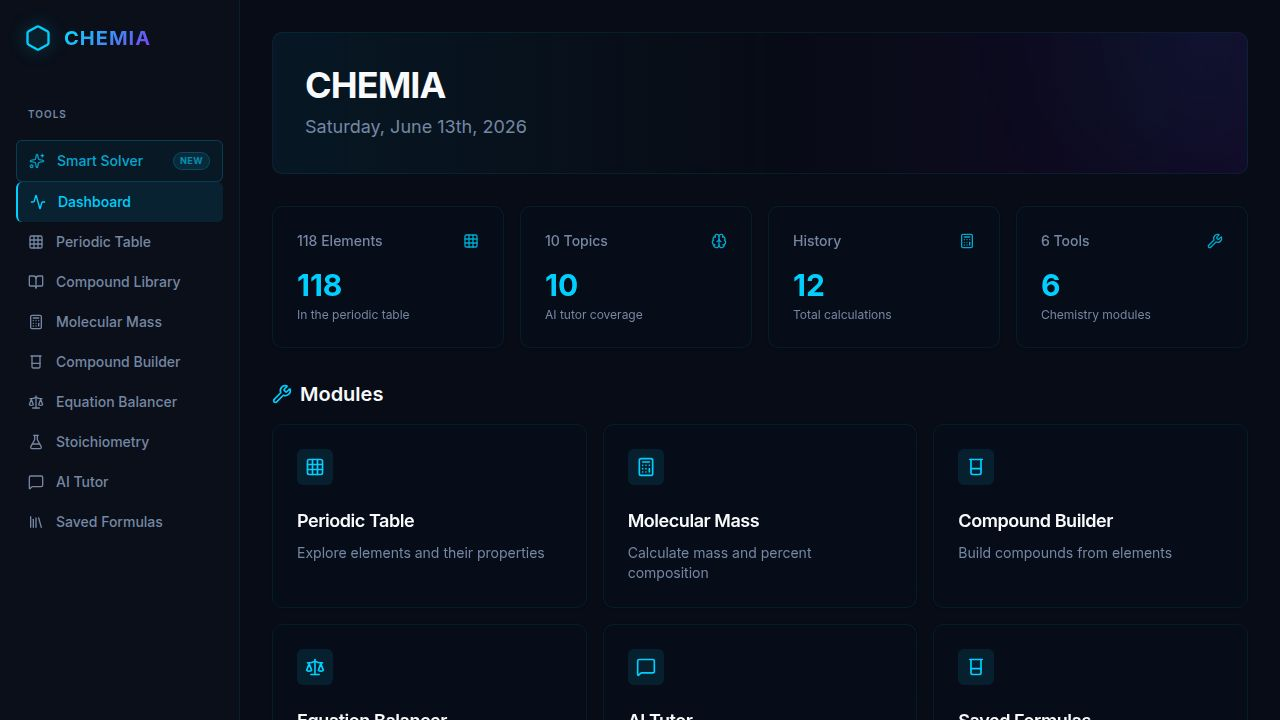
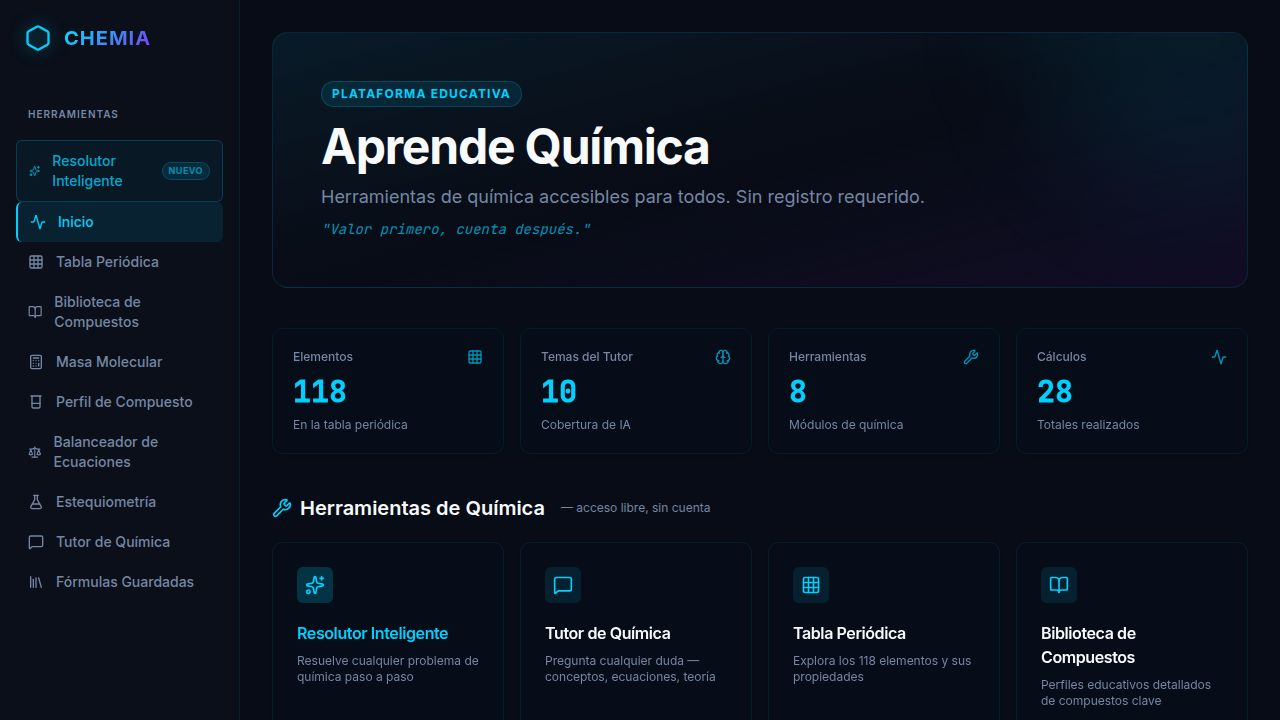
Add Lewis structure SVG diagram renderer to compound profile
Task: Add pre-authored SVG Lewis dot diagrams to each of the 11 MVP compounds
and render them visually in the Lewis card of the compound profile page.

## Backend changes

### New file: artifacts/api-server/src/lib/lewissvg.ts
- Contains 11 hand-crafted, chemically accurate SVG Lewis structure diagrams
- Follows IUPAC conventions: electron dot pairs, bond lines, bracket notation for ions
- Consistent visual language across all compounds:
  - Atom labels: monospace bold, fill #e2e8f0 (readable on dark background)
  - Bond lines: stroke #94a3b8, single vs. double (parallel lines with offset)
  - Lone pairs: two circles (r=2.3) per pair, fill #94a3b8
  - Ionic brackets drawn with <path> elements; charge superscripts shown
- Exports a LEWIS_SVG record keyed by compound formula

### artifacts/api-server/src/lib/perfilUniversal.ts
- Added `lewissvg?: string` to PerfilLewis interface
- Imported LEWIS_SVG from lewissvg.ts
- Modified generarPerfil() to inject the SVG via object spread (no per-compound edits)

## API contract changes

### lib/api-spec/openapi.yaml
- Added `lewissvg` (type: string, optional) to PerfilLewis schema with description
- Re-ran codegen (orval) — all generated hooks and Zod schemas updated cleanly

## Frontend changes

### artifacts/chemia/src/pages/compound-builder.tsx
- Lewis card now renders the SVG via dangerouslySetInnerHTML before the text description
- SVG container: bg-slate-900/60 rounded-lg with subtle border — matches dark theme
[…]

diff --git a/artifacts/api-server/src/lib/lewissvg.ts b/artifacts/api-server/src/lib/lewissvg.ts
@@ -1,0 +1,277 @@
+// ─────────────────────────────────────────────────────────────────────────────
+// CHEMIA — Pre-authored Lewis structure SVG diagrams (IUPAC conventions)
+// Each SVG follows the same visual language:
+//   • Atom labels  — font-family monospace, fill #e2e8f0
+//   • Bond lines   — stroke #94a3b8, stroke-width 1.5
+//   • Lone pairs   — fill #94a3b8, r 2.3 (two dots = one pair)
+//   • Brackets     — stroke #64748b (ionic compounds)
+//   • Footer label — fill #475569, font-size 9
+// ─────────────────────────────────────────────────────────────────────────────
+
+const ATOM  = 'font-family="monospace" font-size="15" font-weight="bold" fill="#e2e8f0" text-anchor="middle"';
+const BOND  = 'stroke="#94a3b8" stroke-width="1.5" stroke-linecap="round"';
+const DOT   = 'fill="#94a3b8" r="2.3"';
+const BKT   = 'stroke="#64748b" stroke-width="1.5" fill="none"';
+const LBL   = 'font-family="sans-serif" font-size="9" fill="#475569" text-anchor="middle"';
+const CHG   = 'font-family="sans-serif" font-size="11" fill="#94a3b8"';
+
+function svg(content: string): string {
+  return `<svg xmlns="http://www.w3.org/2000/svg" viewBox="0 0 220 140">${content}</svg>`;
+}
+
+function atom(x: number, y: number, sym: string): string {
+  return `<text x="${x}" y="${y}" ${ATOM}>${sym}</text>`;
+}
+
+function line(x1: number, y1: number, x2: number, y2: number): string {
+  return `<line x1="${x1}" y1="${y1}" x2="${x2}" y2="${y2}" ${BOND}/>`;
+}
+
+function dbl(x1: number, y1: number, x2: number, y2: number, ox: number, oy: number): string {
+  return (
+    `<line x1="${x1-ox}" y1="${y1-oy}" x2="${x2-ox}" y2="${y2-oy}" ${BOND}/>` +
+    `<line x1="${x1+ox}" y1="${y1+oy}" x2="${x2+ox}" y2="${y2+oy}" ${BOND}/>`
+  );
+}
+
+function dot(x: number, y: number): string {
+  return `<circle cx="${x}" cy="${y}" ${DOT}/>`;
+}
+
+function pair(x1: number, y1: number, x2: number, y2: number): string {
+  return dot(x1, y1) + dot(x2, y2);
+}
+
+function lbl(text: string): string {
+  return `<text x="110" y="133" ${LBL}>${text}</text>`;
+}
+
+function bracket(x: number, y1: number, y2: number, dir: 1 | -1): string {
+  const s = dir * 6;
+  return `<path d="M ${x},${y1} L ${x+s},${y1} L ${x+s},${y2} L ${x},${y2}" ${BKT}/>`;
+}
+
+// ── H₂O ────────────────────────────────────────────────────────────────────
+// Bent (angular), AX₂E₂, sp³, ∠104.5°
+// O at center, two H atoms below-left and below-right, 2 lone pairs on O (top)
+export const SVG_H2O = svg(
+  pair(96, 52, 104, 52) +       // LP 1 (top-left of O)
+  pair(116, 52, 124, 52) +      // LP 2 (top-right of O)
+  line(104, 76, 78, 100) +      // O–H left bond
+  line(116, 76, 142, 100) +     // O–H right bond
+  atom(110, 76, "O") +
+  atom(71, 108, "H") +
+  atom(149, 108, "H") +
+  lbl("AX₂E₂ · sp³ · ∠H–O–H = 104.5° · μ = 1.85 D")
+);
+
+// ── CO₂ ────────────────────────────────────────────────────────────────────
+// Linear, AX₂, sp, 2 double bonds C=O
+// Each O has 2 lone pairs (top + bottom)
+export const SVG_CO2 = svg(
+  pair(22, 57, 32, 57) +        // O_L LP top
+  pair(22, 83, 32, 83) +        // O_L LP bottom
+  pair(188, 57, 198, 57) +      // O_R LP top
+  pair(188, 83, 198, 83) +      // O_R LP bottom
+  dbl(39, 70, 101, 70, 0, 3) +  // O=C left double bond (offset vertical)
+  dbl(119, 70, 181, 70, 0, 3) + // C=O right double bond
+  atom(30, 74, "O") +
+  atom(110, 74, "C") +
+  atom(190, 74, "O") +
+  `<text x="110" y="115" ${LBL}>AX₂ · sp · lineal · μ = 0 D (simétrica)</text>`
+);
+
+// ── NH₃ ────────────────────────────────────────────────────────────────────
+// Trigonal pyramidal, AX₃E₁, sp³
+// N center, 3 H atoms below, 1 lone pair on N (top)
+export const SVG_NH3 = svg(
+  pair(103, 47, 117, 47) +      // lone pair on N
+  line(103, 69, 69, 98) +       // N–H left bond
+  line(117, 69, 151, 98) +      // N–H right bond
+  line(110, 73, 110, 105) +     // N–H bottom bond
+  atom(110, 73, "N") +
+  atom(62, 107, "H") +
+  atom(158, 107, "H") +
+  atom(110, 117, "H") +
+  `<text x="110" y="133" ${LBL}>AX₃E₁ · sp³ · piramidal trigonal · μ = 1.47 D</text>`
+);
+
+// ── CH₄ ────────────────────────────────────────────────────────────────────
+// Tetrahedral, AX₄, sp³
+// C center, 4 H atoms (cross projection), no lone pairs
+export const SVG_CH4 = svg(
+  line(110, 61, 110, 38) +      // C–H top
+  line(101, 70, 67, 70) +       // C–H left
+  line(119, 70, 153, 70) +      // C–H right
+  line(110, 79, 110, 102) +     // C–H bottom
+  atom(110, 74, "C") +
+  atom(110, 30, "H") +
+  atom(58, 74, "H") +
+  atom(162, 74, "H") +
+  atom(110, 113, "H") +
+  lbl("AX₄ · sp³ · tetraédrica · μ = 0 D (simétrica)")
+);
+
+// ── NaCl ───────────────────────────────────────────────────────────────────
+// Ionic: [Na]⁺  [:Cl:]⁻
+// Na⁺ in brackets; Cl⁻ with 4 lone pairs in brackets
+export const SVG_NaCl = svg(
+  bracket(38, 54, 82, 1) +       // Na+ left bracket
+  bracket(80, 54, 82, -1) +      // Na+ right bracket
+  atom(59, 74, "Na") +
+  `<text x="88" y="57" ${CHG}>+</text>` +
+  bracket(126, 50, 92, 1) +      // Cl- left bracket
+  bracket(189, 50, 92, -1) +     // Cl- right bracket
+  pair(147, 53, 163, 53) +       // Cl LP top
+  pair(147, 90, 163, 90) +       // Cl LP bottom
+  pair(130, 64, 130, 76) +       // Cl LP left
+  pair(186, 64, 186, 76) +       // Cl LP right
+  atom(157, 74, "Cl") +
+  `<text x="196" y="53" ${CHG}>−</text>` +
+  `<text x="110" y="119" ${LBL}>Iónico · ΔEN = 2.23 · red cristalina FCC · NC = 6</text>`
+);
+
+// ── HCl ────────────────────────────────────────────────────────────────────
+// Linear diatomic, AX₁E₃ on Cl, sp³
+// H–Cl single bond, 3 lone pairs on Cl
+export const SVG_HCl = svg(
+  line(63, 70, 135, 70) +        // H–Cl bond
+  atom(55, 74, "H") +
+  atom(152, 74, "Cl") +
+  pair(143, 52, 162, 52) +       // Cl LP top
+  pair(143, 88, 162, 88) +       // Cl LP bottom
+  pair(176, 63, 176, 77) +       // Cl LP right
+  lbl("AX₁E₃ · sp³ (Cl) · diatómica polar · μ = 1.08 D")
+);
+
+// ── HNO₃ ───────────────────────────────────────────────────────────────────
+// Planar trigonal, AX₃ (resonance), sp²
+// H–O–N with =O above and resonance –O below
+export const SVG_HNO3 = svg(
+  line(27, 70, 50, 70) +         // H–O bond
+  pair(54, 53, 64, 53) +         // O_h LP top
+  pair(54, 84, 64, 84) +         // O_h LP bottom
+  line(69, 70, 98, 66) +         // O–N bond
+  dbl(105, 60, 105, 30, 4, 0) +  // N=O top (double bond, horizontal offset)
+  line(112, 68, 141, 90) +       // N–O bottom (single, resonance)
+  pair(95, 21, 115, 21) +        // O_top LP top
+  pair(89, 31, 89, 41) +         // O_top LP left
+  pair(148, 97, 162, 97) +       // O_bot LP bottom
+  pair(152, 83, 152, 91) +       // O_bot LP right — shown with charge
+  atom(20, 74, "H") +
+  atom(60, 74, "O") +
+  atom(108, 70, "N") +
+  atom(105, 24, "O") +
+  atom(150, 98, "O") +
+  `<text x="163" y="91" ${CHG}>−</text>` +
+  `<text x="110" y="122" ${LBL}>AX₃ (resonancia) · sp² · plana trigonal · μ = 2.17 D</text>`
+);
+
+// ── H₂SO₄ ──────────────────────────────────────────────────────────────────
+// Tetrahedral around S, AX₄, sp³
+// 2 S=O (above/below) and 2 S–O–H (left/right)
+export const SVG_H2SO4 = svg(
+  atom(20, 72, "H") +
+  line(29, 70, 50, 70) +         // H–O_L bond
+  pair(53, 55, 63, 55) +         // O_L LP top
+  pair(53, 83, 63, 83) +         // O_L LP bottom
+  atom(58, 72, "O") +
+  line(67, 70, 100, 70) +        // O_L–S bond
+  atom(110, 72, "S") +
+  line(119, 70, 152, 70) +       // S–O_R bond
+  atom(162, 72, "O") +
+  pair(157, 55, 167, 55) +       // O_R LP top
+  pair(157, 83, 167, 83) +       // O_R LP bottom
+  line(171, 70, 192, 70) +       // O_R–H bond
+  atom(200, 72, "H") +
+  dbl(110, 61, 110, 30, 4, 0) +  // S=O top double bond
+  pair(96, 22, 96, 32) +         // O_top LP left
+  pair(124, 22, 124, 32) +       // O_top LP right
+  atom(110, 24, "O") +
+  dbl(110, 79, 110, 113, 4, 0) + // S=O bottom double bond
+  pair(96, 108, 96, 118) +       // O_bot LP left
+  pair(124, 108, 124, 118) +     // O_bot LP right
+  atom(110, 122, "O") +
+  `<text x="110" y="137" ${LBL}>AX₄ · sp³ · tetraédrica (S) · μ = 2.72 D</text>`
+);
+
+// ── Ca(OH)₂ ────────────────────────────────────────────────────────────────
+// Ionic: Ca²⁺ and 2 × OH⁻
+// Ca²⁺ in brackets; one OH⁻ shown (×2) with O–H bond and lone pairs on O
+export const SVG_CaOH2 = svg(
+  bracket(32, 52, 86, 1) +       // Ca²⁺ left bracket
+  bracket(85, 52, 86, -1) +      // Ca²⁺ right bracket
+  atom(58, 75, "Ca") +
+  `<text x="93" y="55" ${CHG}>2+</text>` +
+  `<text x="108" y="75" font-family="sans-serif" font-size="14" fill="#64748b">×2</text>` +
+  bracket(123, 50, 92, 1) +      // OH⁻ left bracket
+  bracket(194, 50, 92, -1) +     // OH⁻ right bracket
+  pair(131, 54, 145, 54) +       // O LP top
+  pair(131, 90, 145, 90) +       // O LP bottom
+  atom(142, 74, "O") +
+  line(151, 71, 173, 71) +       // O–H bond
+  atom(182, 74, "H") +
+  `<text x="201" y="53" ${CHG}>−</text>` +
+  `<text x="110" y="118" ${LBL}>Iónico · Ca²⁺ + 2 OH⁻ · ΔEN(Ca–O) = 2.44</text>`
+);
+
+// ── CH₃COOH ────────────────────────────────────────────────────────────────
+// Structural formula: methyl (sp³) + carboxyl (sp²)
+// All H atoms shown, C=O and C–O–H of carboxyl group
+export const SVG_CH3COOH = svg(
+  atom(48, 72, "H") +
+  atom(78, 38, "H") +
+  atom(78, 105, "H") +
+  line(55, 70, 67, 70) +         // H_left–C₁
+  line(78, 48, 78, 60) +         // H_top–C₁ (down to C₁)
+  line(78, 78, 78, 95) +         // H_bot–C₁
+  atom(78, 72, "C") +            // C₁ methyl
+  line(87, 70, 113, 70) +        // C₁–C₂
+  atom(122, 72, "C") +           // C₂ carboxyl
+  dbl(122, 61, 122, 30, 4, 0) +  // C₂=O double bond (up)
+  pair(107, 22, 107, 32) +       // =O LP left
+  pair(137, 22, 137, 32) +       // =O LP right
+  atom(122, 24, "O") +
+  line(131, 70, 153, 70) +       // C₂–O_hydroxyl
+  pair(158, 54, 168, 54) +       // O_hydroxyl LP top
+  pair(158, 83, 168, 83) +       // O_hydroxyl LP bottom
+  atom(163, 72, "O") +
+  line(172, 70, 192, 70) +       // O–H
+  atom(200, 72, "H") +
+  `<text x="78" y="122" font-family="sans-serif" font-size="8" fill="#475569" text-anchor="middle">sp³</text>` +
+  `<text x="122" y="122" font-family="sans-serif" font-size="8" fill="#475569" text-anchor="middle">sp²</text>` +
+  `<text x="110" y="135" ${LBL}>CH₃ (sp³) + –COOH (sp²) · pKa = 4.74 · μ = 1.74 D</text>`
+);
+
+// ── MgS ────────────────────────────────────────────────────────────────────
+// Ionic: [Mg]²⁺  [S]²⁻
+// Mg²⁺ in brackets; S²⁻ with 4 lone pairs in brackets
+export const SVG_MgS = svg(
+  bracket(38, 54, 82, 1) +       // Mg²⁺ left bracket
+  bracket(80, 54, 82, -1) +      // Mg²⁺ right bracket
+  atom(59, 74, "Mg") +
+  `<text x="89" y="57" ${CHG}>2+</text>` +
+  bracket(120, 50, 92, 1) +      // S²⁻ left bracket
+  bracket(189, 50, 92, -1) +     // S²⁻ right bracket
+  pair(143, 53, 157, 53) +       // S LP top
+  pair(143, 90, 157, 90) +       // S LP bottom
+  pair(124, 64, 124, 76) +       // S LP left
+  pair(186, 64, 186, 76) +       // S LP right
+  atom(155, 74, "S") +
+  `<text x="196" y="53" ${CHG}>2−</text>` +
+  `<text x="110" y="119" ${LBL}>Iónico · ΔEN = 1.27 · red tipo NaCl (Fm3̄m) · NC = 6</text>`
+);
+
+export const LEWIS_SVG: Record<string, string> = {
+  H2O:      SVG_H2O,
+  CO2:      SVG_CO2,
+  NH3:      SVG_NH3,
+  CH4:      SVG_CH4,
+  NaCl:     SVG_NaCl,
+  HCl:      SVG_HCl,
+  HNO3:     SVG_HNO3,
+  H2SO4:    SVG_H2SO4,
+  "Ca(OH)2": SVG_CaOH2,
+  CH3COOH:  SVG_CH3COOH,
+  MgS:      SVG_MgS,
+};

diff --git a/artifacts/api-server/src/lib/perfilUniversal.ts b/artifacts/api-server/src/lib/perfilUniversal.ts
@@ -5,6 +5,8 @@
 // sourced from IUPAC 2021, NIST WebBook, or standard university textbooks.
 // ─────────────────────────────────────────────────────────────────────────────
 
+import { LEWIS_SVG } from "./lewissvg.js";
+
 export interface PerfilNomenclatura {
   tradicional: string;
   stock: string;
@@ -23,6 +25,7 @@ export interface PerfilLewis {
   enlacesDobles?: number;
   enlacesTriples?: number;
   notaResonancia?: string;
+  lewissvg?: string;
 }
 
 export interface PerfilVSEPR {
@@ -726,5 +729,10 @@ export const MVP_COMPOUNDS = Object.keys(PERFILES);
 
 export function generarPerfil(formula: string): PerfilUniversal | null {
   const key = normalizeFormula(formula);
-  return PERFILES[key] ?? null;
+  const perfil = PERFILES[key];
+  if (!perfil) return null;
+  return {
+    ...perfil,
+    lewis: { ...perfil.lewis, lewissvg: LEWIS_SVG[key] },
+  };
 }

diff --git a/artifacts/chemia/src/pages/compound-builder.tsx b/artifacts/chemia/src/pages/compound-builder.tsx
@@ -276,6 +276,12 @@ export default function PerfilUniversalPage() {
                 </CardTitle>
               </CardHeader>
               <CardContent className="space-y-3">
+                {perfil.lewis.lewissvg && (
+                  <div
+                    className="w-full rounded-lg bg-slate-900/60 border border-border/30 overflow-hidden flex items-center justify-center py-1"
+                    dangerouslySetInnerHTML={{ __html: perfil.lewis.lewissvg }}
+                  />
+                )}
                 <p className="text-sm text-foreground/80 leading-relaxed">{perfil.lewis.descripcion}</p>
                 {perfil.lewis.notaResonancia && (
                   <div className="p-2.5 rounded-lg bg-primary/5 border border-primary/20 text-xs text-foreground/70 leading-relaxed">